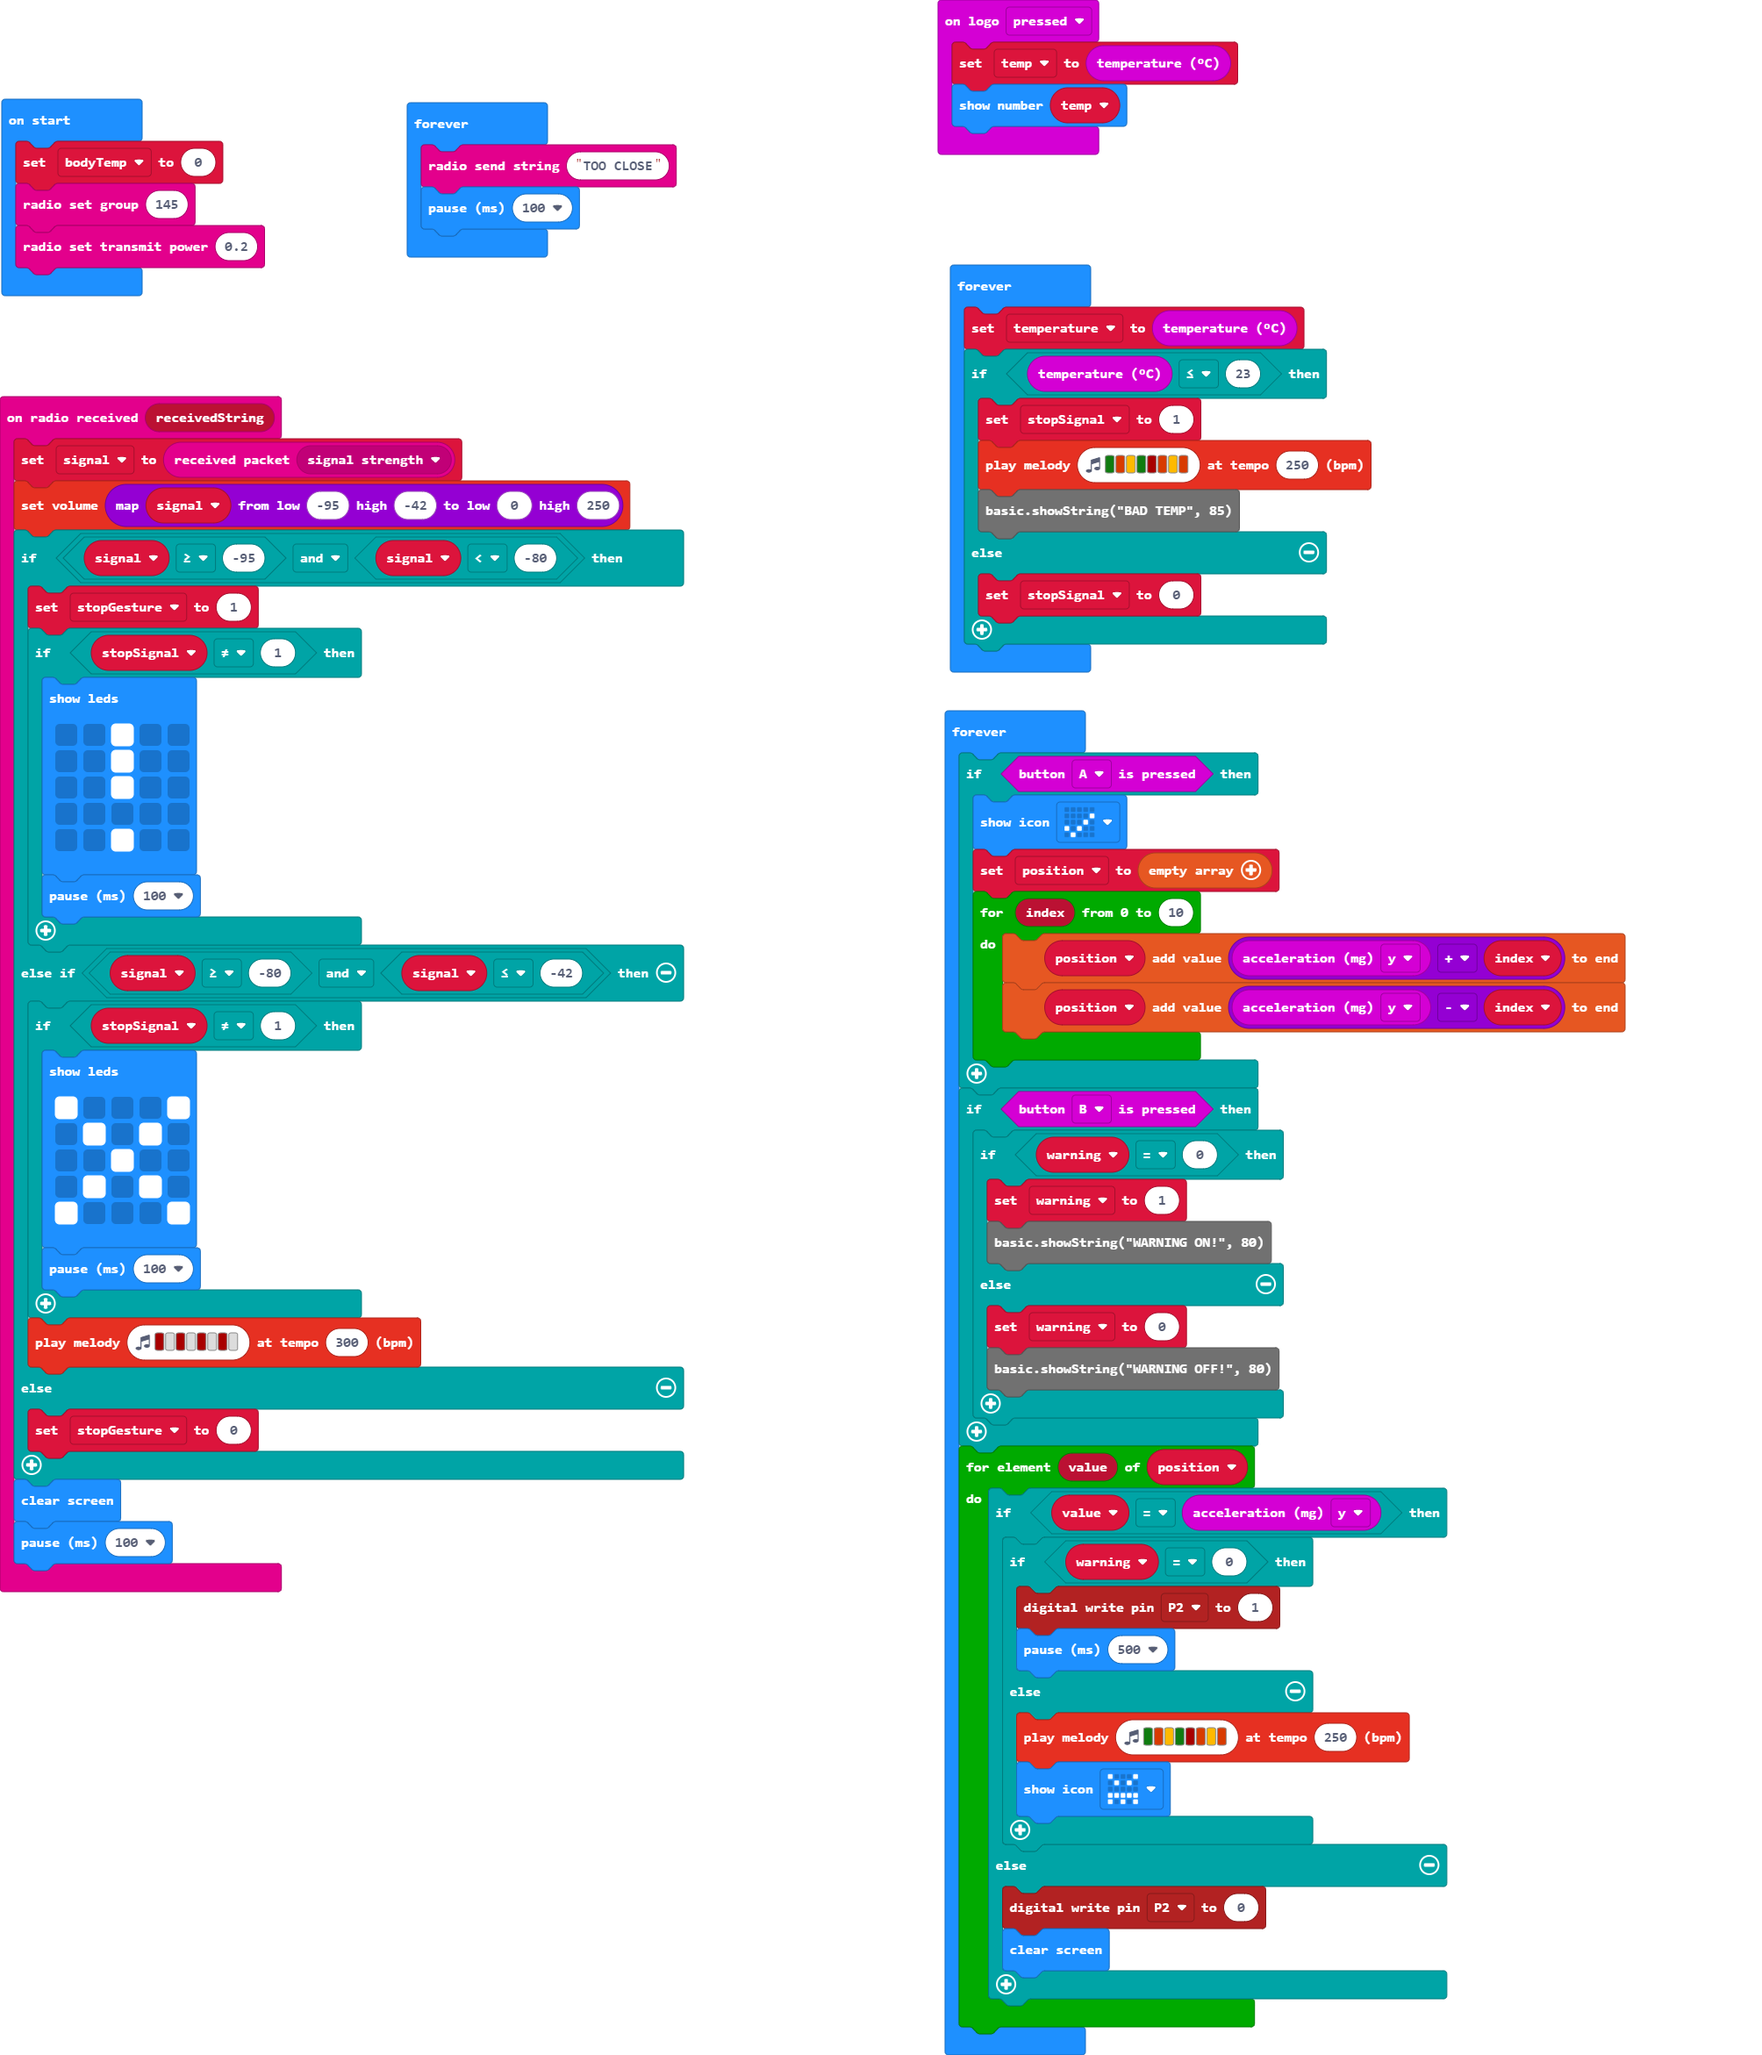
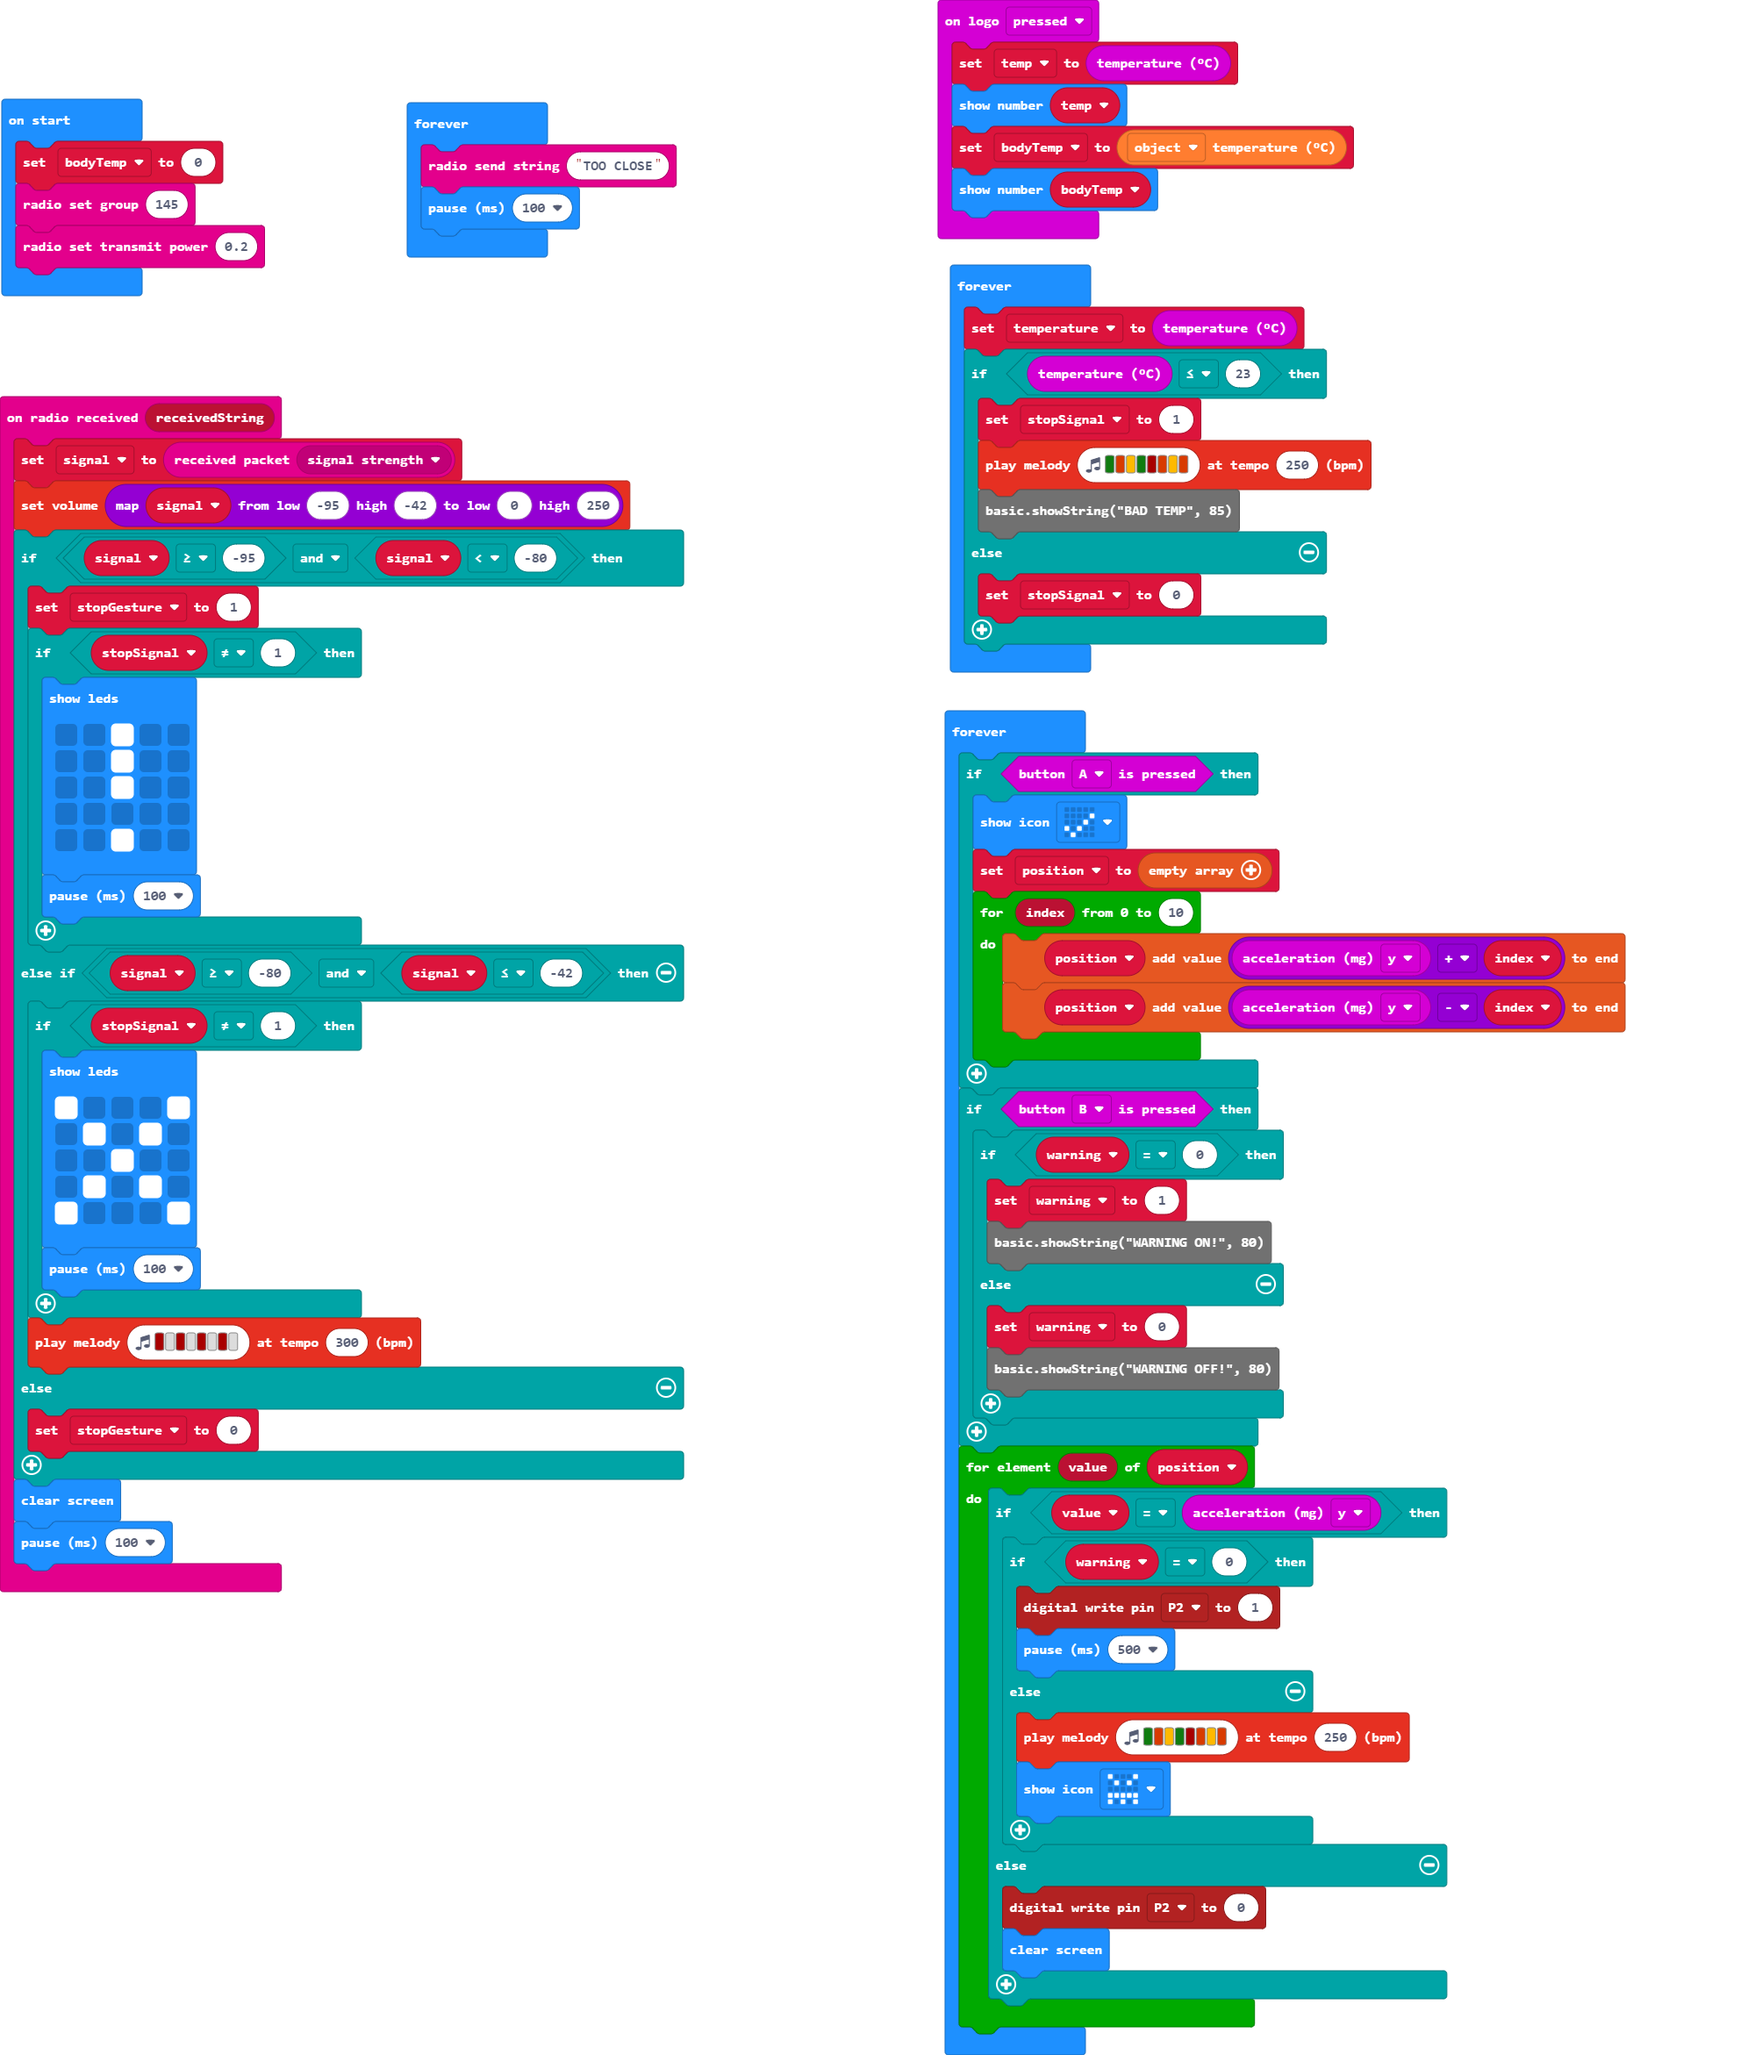
add sensor temp

Changed region(s): [[0.5249, 0.0623, 0.7719, 0.1247]]

diff --git a/main.ts b/main.ts
@@ -34,6 +34,8 @@ radio.onReceivedString(function (receivedString) {
 input.onLogoEvent(TouchButtonEvent.Pressed, function () {
     temp = input.temperature()
     basic.showNumber(temp)
+    bodyTemp = MLX90614.temperature(MLX90614_TEMPERATURE_ORIGIN.OBJECT)
+    basic.showNumber(bodyTemp)
 })
 let warning = 0
 let position: number[] = []
@@ -43,6 +45,7 @@ let stopSignal = 0
 let stopGesture = 0
 let signal = 0
 let bodyTemp = 0
+bodyTemp = 0
 radio.setGroup(145)
 radio.setTransmitPower(0.2)
 basic.forever(function () {
